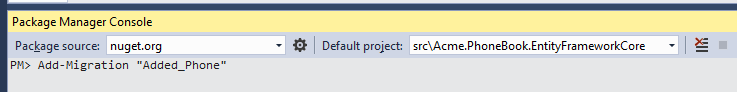
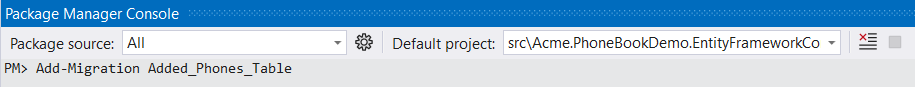
Refactor step by step core docs

diff --git a/docs/en/Developing-Step-By-Step-Core-Authorization-For-Phone-Book.md b/docs/en/Developing-Step-By-Step-Core-Authorization-For-Phone-Book.md
@@ -11,7 +11,7 @@ defined. We will define two permission:
 
 ### Define the permission
 
-Go to **AppAuthorizationProvider** class and add a new permission as shown below:
+Go to **AppAuthorizationProvider** class under **Authorization** folder in the **.Core** project  class and add a new permission as shown below:
 
 ```csharp
 pages.CreateChildPermission(AppPermissions.Pages_Tenant_PhoneBook, L("PhoneBook"), multiTenancySides: MultiTenancySides.Tenant);
@@ -37,6 +37,14 @@ public class PersonAppService : PhoneBookAppServiceBase, IPersonAppService
 }
 ```
 
+### Update permission
+
+We are currently in an admin level account. We will update this user's permissions to test Phonebook authorization. Go to **Role Management page** and edit **admin** role:
+
+<img src="images/role-permissions-with-phonebook2.png" alt="Role permissions" class="img-thumbnail" width="839" height="898" />
+
+We see that a **new permission** named "**Phone book**" added to **permissions** tab. So, we can check it and save the role. After saving, we need to **refresh** the whole page to refresh permissions for the current user. We could also grant this permission for a specific user. Now, we can enter the Phone book page again.
+
 Now, let's try to enter Phone Book page by clicking the menu item:
 
 <img src="images/error-500.png" alt="500 Error" class="img-thumbnail" width="614" height="243" />
@@ -56,14 +64,6 @@ new MenuItemDefinition(
     permissionDependency: new SimplePermissionDependency(AppPermissions.Pages_Tenant_PhoneBook)
 )
 ```
-
-### Grant permission
-
-So, how we can enter the page now? Simple, go to **Role Management** page and edit **admin** role:
-
-<img src="images/role-permissions-with-phonebook2.png" alt="Role permissions" class="img-thumbnail" width="839" height="898" />
-
-We see that a **new permission** named "**Phone book**" added to **permissions** tab. So, we can check it and save the role. After saving, we need to **refresh** the whole page to refresh permissions for the current user. We could also grant this permission for a specific user. Now, we can enter the Phone book page again.
 
 ## Permission for Create New Person
 
@@ -109,7 +109,7 @@ Open the **index.cshtml** razor view and use **IsGranted** method:
 
 In this way, the "Create New Person" button does not rendered in server and user can not see this button.
 
-### Grant permission
+### Update permission
 
 To see the button again, we can go to role or user manager and grant related permission as shown below:
 

diff --git a/docs/en/Developing-Step-By-Step-Core-Filtering-People.md b/docs/en/Developing-Step-By-Step-Core-Filtering-People.md
@@ -5,21 +5,20 @@ Now, we will implement **search** functionality of **GetPeople** method. UI is s
 <img src="images/search-people-3.png" alt="Searching people" class="img-thumbnail" width="770" height="328" />
 
 We added a search input to filter people (showing the related part of
-the code):
+the code. Insert code to inner **.card-body**):
 
 ```html
-<div class="card-body">
-	<div class="col-xl-12">
-		<div class="mb-5 align-items-center">			
-			<div class="input-group">
-				<input type="text" id="UsersTableFilter" name="Filter" class="form-control" placeholder="@L("SearchWithThreeDot")">
-				<button id="FilterUsersButton" class="btn btn-primary" type="submit">
-					<i class="flaticon-search-1" aria-label="Search"></i>
-				</button>
-			</div>
+<div class="col-xl-12">
+	<div class="mb-5 align-items-center">			
+		<div class="input-group">
+			<input type="text" id="UsersTableFilter" name="Filter" class="form-control" placeholder="@L("SearchWithThreeDot")">
+			<button id="FilterUsersButton" class="btn btn-primary" type="submit">
+				<i class="flaticon-search-1" aria-label="Search"></i>
+			</button>
 		</div>
 	</div>
-<!--...--->
+</div>
+<!-- people table starts --->
 ```
 Then go to the **Index.js** and add following code part.
 ```javascript

diff --git a/docs/en/Developing-Step-By-Step-Core-Creating-Person-Application-Service.md b/docs/en/Developing-Step-By-Step-Core-Creating-Person-Application-Service.md
@@ -81,15 +81,15 @@ public class PersonAppService : PhoneBookDemoAppServiceBase, IPersonAppService
 }
 ```
 
-We're injecting **person repository** (it's automatically created by
-ABP) and using it to filter and get people from database.
+We're injecting **person repository** [(it's automatically created by
+ABP)](https://aspnetboilerplate.com/Pages/Documents/Repositories) and using it to filter and get people from database.
 
-**WhereIf** is an extension method here (defined in Abp.Linq.Extensions
+**WhereIf** is an extension method here (defined in **Abp.Linq.Extensions**
 namespace). It performs Where condition, only if filter is not null or
 empty. **IsNullOrEmpty** is also an extension method (defined in
-Abp.Extensions namespace). ABP has many similar shortcut extension
+**Abp.Extensions** namespace). ABP has many similar shortcut extension
 methods. **ObjectMapper.Map** method automatically converts list of
-Person entities to list of PersonListDto objects with using
+Person entities to list of **PersonListDto** objects with using
 configurations in **CustomDtoMapper.cs** in **.Application** project.
 
 ## Connection & Transaction Management

diff --git a/docs/en/Developing-Step-By-Step-Core-Database-Migrations-Person.md b/docs/en/Developing-Step-By-Step-Core-Database-Migrations-Person.md
@@ -5,13 +5,30 @@ schema. Since we added **Person entity**, our DbContext model is
 changed. So, we should create a **new migration** to create the new
 table in the database.
 
+## Package Manager Console
+
 Open **Package Manager Console**, run the **Add-Migration
 "Added\_Persons\_Table"** command as shown below:
 
 <img src="images/phonebook-migrations-core-3.png" alt="Entity Framework Code First Migration" class="img-thumbnail" />
 
-This command will add a **migration class** named
-"**Added\_Persons\_Table**" as shown below:
+## Dotnet CLI
+
+Open project in terminal, change your working directory to **.EntityFrameworkCore** folder and run the following command:
+
+### Add Migration
+```shell 
+dotnet ef migrations add "Added_Persons_Table" -s "../Acme.PhoneBookDemo.Web.Mvc" -c "PhoneBookDemoDbContext"
+```
+
+### Update Database
+```shell
+dotnet ef database update -s "../Acme.PhoneBookDemo.Web.Mvc" -c "PhoneBookDemoDbContext"
+```
+
+After adding migration, this is how to **migration class** looks like:
+
+```csharp
 
 ```csharp
 public partial class Added_Persons_Table : Migration

diff --git a/docs/en/Developing-Step-By-Step-Core-Edit-Mode-For-Phone-Numbers.md b/docs/en/Developing-Step-By-Step-Core-Edit-Mode-For-Phone-Numbers.md
@@ -29,11 +29,29 @@ public class PhoneBookController : AbpZeroTemplateControllerBase
 }
 ```
 
+## Dto
+
+Go to `PhoneInPersonListDto` and add `GetPhoneTypeAsString`.
+
+```csharp
+public class PhoneInPersonListDto : CreationAuditedEntityDto<long>
+{
+    public PhoneType Type { get; set; }
+
+    public string Number { get; set; }
+    
+    public string GetPhoneTypeAsString()
+    {
+        return LocalizationHelper.GetString(PhoneBookDemoConsts.LocalizationSourceName, "PhoneType_" + Type);
+    }
+}
+```
+
 ## View
 
 Create new view named **_EditPersonModal.cshtml** and fill edit phones tab.
 
-`EditPersonModal.cshtml`
+`_EditPersonModal.cshtml`
 ```html
 
 @model .PersonListDto
@@ -219,7 +237,7 @@ The final of the **Index.js** is:
             edit: abp.auth.hasPermission('Pages.Tenant.PhoneBook.EditPerson')
         };
 
-        var _$phonebookTable = $('#PhoneBookTable');
+        var _$phonebookTable = $('#AllPeopleList');
         var _personService = abp.services.app.person;
 
         var _editPersonModal = new app.ModalManager({

diff --git a/docs/en/Developing-Step-By-Step-Core-Creating-Person-Entity.md b/docs/en/Developing-Step-By-Step-Core-Creating-Person-Entity.md
@@ -1,8 +1,6 @@
 # Creating Person Entity
 
-We define entities in **.Core** (domain) project. We can define a
-**Person** entity (mapped to **PbPersons** table in database) to
-represent a person in phone book as shown below:
+We define entities at domain specific folders in **.Core** (domain) project. We can create a folder named **PhoneBook** and define a **Person** entity (mapped to **PbPersons** table in database) to represent a person in phone book as shown below:
 
 ```csharp
 [Table("PbPersons")]
@@ -29,7 +27,7 @@ a person, it's not deleted by database but marked as deleted (see
 [data
 filters](https://aspnetboilerplate.com/Pages/Documents/Data-Filters)
 documentations for more information). We created **PersonConsts** in
-**Core.Shared** project for **MaxLength** properties. This is a good
+**.Core.Shared** project for **MaxLength** properties. This is a good
 practice since we will use same values later.
 
 ```csharp

diff --git a/docs/en/Developing-Step-By-Step-Core-Database-Migration-Phone-Entity.md b/docs/en/Developing-Step-By-Step-Core-Database-Migration-Phone-Entity.md
@@ -2,7 +2,26 @@
 
 Our entity model has changed, so we need to add a new migration:
 
+## Package Manager Console
+
+Open **Package Manager Console**, run the **Add-Migration
+"Added_Phones_Table"** command as shown below:
+
 <img src="images/phonebook-migrations-core-4.png" alt="Entity Framework Migration" class="img-thumbnail" />
+
+## Dotnet Cli
+
+Open project in terminal, change your working directory to **.EntityFrameworkCore** folder and run the following command:
+
+### Add Migration
+```shell 
+dotnet ef migrations add "Added_Phones_Table" -s "../Acme.PhoneBookDemo.Web.Mvc" -c "PhoneBookDemoDbContext"
+```
+
+### Update Database
+```shell
+dotnet ef database update -s "../Acme.PhoneBookDemo.Web.Mvc" -c "PhoneBookDemoDbContext"
+```
 
 This will create a new code based migration file to create **PbPhones**
 table:

diff --git a/docs/en/Developing-Step-By-Step-Core-Creating-Running-Project.md b/docs/en/Developing-Step-By-Step-Core-Creating-Running-Project.md
@@ -9,8 +9,7 @@ Also, run database migrations, create the database and login to the application 
 
 <img src="images/default-dashboard-5.png" alt="Dashboard" class="img-thumbnail" />
 
-Logout from the application for now. We will make our application **single-tenant** (we will convert it to multi-tenant later). So, we open PhoneBookDemoConsts class in the Acme.PhoneBookDemo.Core project
-and disable multi-tenancy as shown below:
+Logout from the application for now. We will make our application **single-tenant** (we will convert it to multi-tenant later). So, we open **PhoneBookDemoConsts** class in the **.Core.Shared** project and disable multi-tenancy as shown below:
 
 ```csharp
 public class PhoneBookDemoConsts

diff --git a/docs/en/Developing-Step-By-Step-Core-Deleting-Person.md b/docs/en/Developing-Step-By-Step-Core-Deleting-Person.md
@@ -99,6 +99,22 @@ var dataTable = _$phonebookTable.DataTable({
     ],
 });
 
+function deletePerson(personId) {
+    abp.message.confirm(
+        app.localize('AreYouSureToDeleteThePerson'),
+        app.localize('AreYouSure'),
+        function (isConfirmed) {
+            if (isConfirmed) {
+                _personService.deletePerson({
+                    id: personId
+                }).done(function () {
+                    abp.notify.info(app.localize('SuccessfullyDeleted'));
+                    getPeople();
+                });
+            }
+        }
+    );
+}
 ```
 
 It first shows a confirmation message when we click the delete button:

diff --git a/docs/en/Developing-Step-By-Step-Core-Adding-New-Menu-Item.md b/docs/en/Developing-Step-By-Step-Core-Adding-New-Menu-Item.md
@@ -43,7 +43,7 @@ as shown below:
 
 <img src="images/localization-files-5.png" alt="Localization files" class="img-thumbnail" />
 
-Open PhoneBook.xml (the **default**, **English** localization
+Open **PhoneBook.xml** (the **default**, **English** localization
 dictionary) and add the following line:
 
 ```xml
@@ -52,7 +52,7 @@ dictionary) and add the following line:
 
 If we don't define "PhoneBook"s value for other localization
 dictionaries, default value is shown in all languages. We can define it
-also for Turkish in PhoneBook-tr.xml file:
+also for Turkish in **PhoneBook-tr.xml** file:
 
 ```xml
 <text name="PhoneBook">Telefon Rehberi</text>

diff --git a/docs/en/Developing-Step-By-Step-Core-Edit-Mode-For-People.md b/docs/en/Developing-Step-By-Step-Core-Edit-Mode-For-People.md
@@ -4,7 +4,7 @@ Now we want to edit name, surname and e-mail of people. Here is the final result
 
 <img src="images/edit-person-core-2.png" alt="Edit Person" class="img-thumbnail" width="548" height="333" />  
 
-Now go to **PersonAppservice** and add EditPerson.
+Now go to **PersonAppservice** and **IPersonAppService** add **EditPerson**.
 
 ```csharp       
 public class EditPersonInput : EntityDto

diff --git a/docs/en/Developing-Step-By-Step-Core-Creating-Modal-Person.md b/docs/en/Developing-Step-By-Step-Core-Creating-Modal-Person.md
@@ -13,7 +13,7 @@ Copied and modified the view code as shown below
 (\_CreatePersonModal.cshtml): 
 
 ```html
-@using Acme.PhoneBookDemo.People
+@using Acme.PhoneBookDemo.PhoneBook
 @using Acme.PhoneBookDemo.Web.Areas.App.Models.Common.Modals
 
 @Html.Partial("~/Areas/App/Views/Common/Modals/_ModalHeader.cshtml", new ModalHeaderViewModel(L("CreateNewPerson")))
